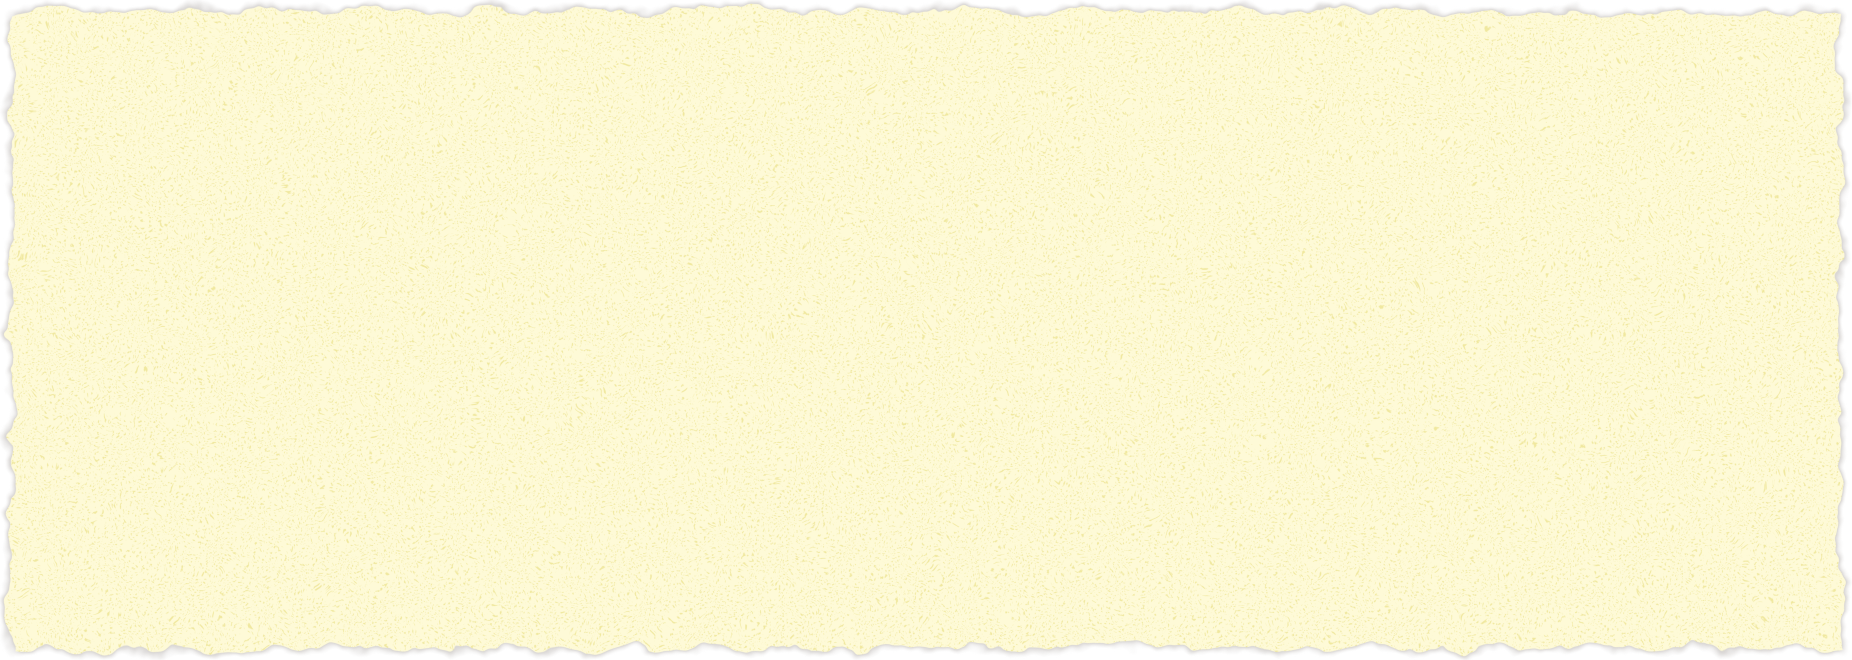
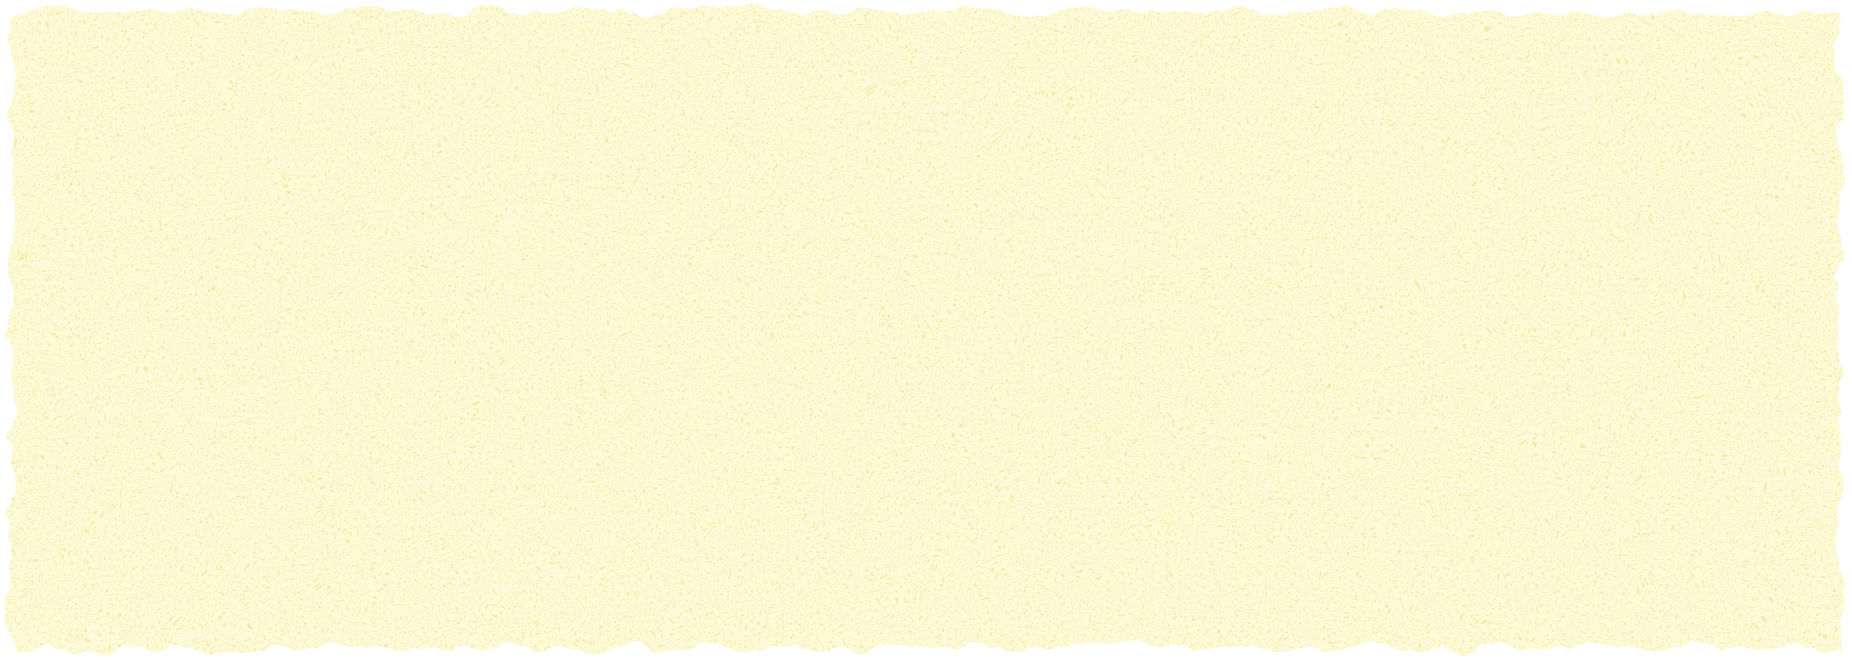
continue fixing name paper, pushing new yellow paper asset with no shadow

diff --git a/app/globals.css b/app/globals.css
@@ -158,9 +158,9 @@ body {
 /* Yellow section (top of card) */
 .yellow-section {
   position: relative;
-  padding: 2rem;
+  padding: 1rem; /* Smaller padding for mobile */
   text-align: center;
-  width: 100%;
+  width: fit-content; /* Changed from 100% to hug contents */
   display: flex;
   flex-direction: column;
   justify-content: flex-start;
@@ -182,7 +182,7 @@ body {
 /* Main name heading */
 .name-heading {
   font-family: var(--font-monsieur), cursive;
-  font-size: 2.5rem; /* Sized to keep "Jacqueline Guo" on one line on mobile */
+  font-size: 3rem; /* Sized to keep "Jacqueline Guo" on one line on mobile */
   color: var(--ketchup-red);
   margin-bottom: 0.5rem;
   white-space: nowrap; /* Prevents text from wrapping to multiple lines */
@@ -196,7 +196,7 @@ body {
   font-family: var(--font-hershey), serif;
   font-style: italic;
   color: var(--ketchup-red);
-  font-size: 0.5rem; /* Smaller base size for mobile, scales up on tablet+ */
+  font-size: 0.6rem; /* Smaller base size for mobile, scales up on tablet+ */
   font-weight: 700;
   letter-spacing: -0.01em;
 }
@@ -228,7 +228,7 @@ img.asterisk {
 .subtitle-row {
   display: flex;
   flex-direction: row;
-  margin-top: -1.5rem; /* No overlap on mobile */
+  margin-top: -1.3rem; /* No overlap on mobile */
   margin-left: 1.5rem; /* Smaller margin for mobile */
   gap: 0.2rem; /* Smaller gap for mobile */
   transform: rotate(-1deg);
@@ -283,7 +283,7 @@ img.asterisk {
   }
 
   .yellow-section {
-    padding: 1.5rem;
+    padding: 2rem; /* Restore larger padding for tablet+ */
   }
 
   .kraft-section {
